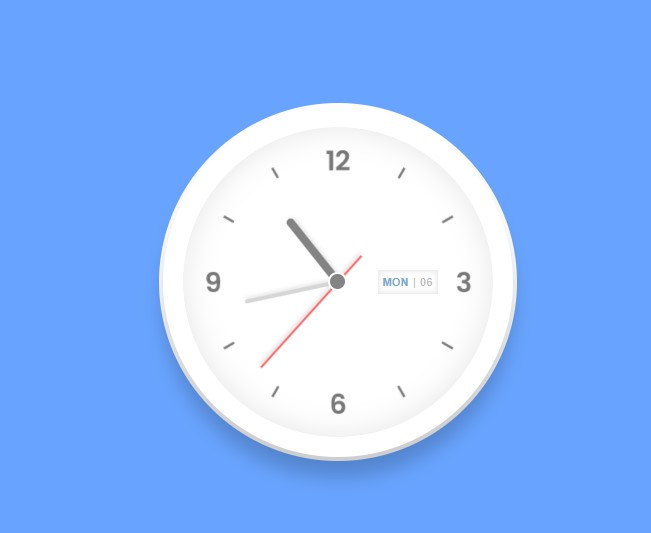
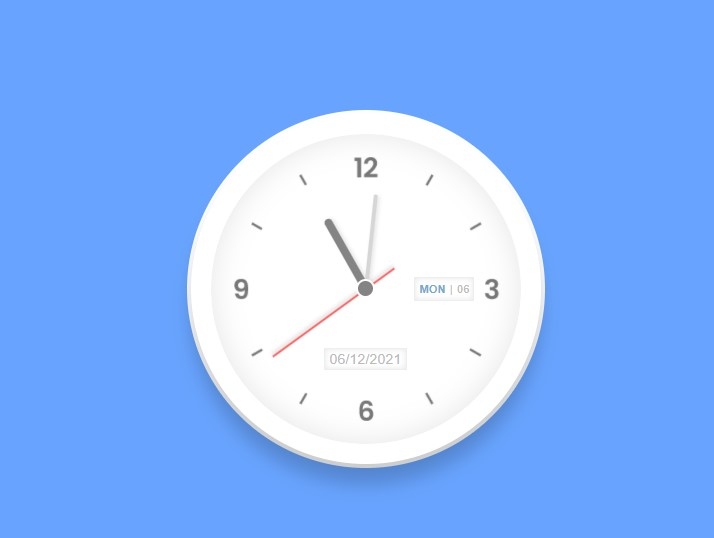
analog clock updated

diff --git a/irshad_ot/misc/analog_clock/index.html b/irshad_ot/misc/analog_clock/index.html
@@ -26,6 +26,10 @@
         <span class="dayOfWeek"></span> | 
         <span class="currentDay"></span>
       </div>
+
+      <div class="calendar">
+        <span class="completeDate">25/01/2020</span>
+      </div>
     </div>
   </section>
 
@@ -38,18 +42,25 @@
 
     const daysOfWeek = document.querySelector('.dayOfWeek')
     const currentDayNumber = document.querySelector('.currentDay')
+    const completeDate = document.querySelector('.completeDate')
 
     setInterval(() => {
       const day = new Date()
-      
-      const currentDay = day.getDate()
+
       const dayOfWeek = day.toLocaleString('en-us', { weekday: 'short'})
       const hh = day.getHours() * 30
       const mm = day.getMinutes() * deg
       const ss = day.getSeconds() * deg
       
+      const currentDay = (''+day.getDate()).padStart(2,'0')
+      const currentMonth = (''+(day.getMonth() + 1)).padStart(2,'0')
+      const currentYear = day.getFullYear()
+
+      const currentDate = `${currentDay}/${currentMonth}/${currentYear}`
+
       daysOfWeek.innerHTML = dayOfWeek
-      currentDayNumber.innerHTML = (''+currentDay).padStart(2,'0')
+      currentDayNumber.innerHTML = currentDay
+      completeDate.innerHTML = currentDate
 
       hr.style.transform = `rotateZ(${hh + (mm / 12)}deg)`
       mn.style.transform = `rotateZ(${mm}deg)`

diff --git a/irshad_ot/misc/analog_clock/style.css b/irshad_ot/misc/analog_clock/style.css
@@ -108,7 +108,7 @@ body {
 
 .date {
   position: relative;
-  left: 70px;
+  left: 120px;
   font-size: 0.7rem;
   width: 60px;
   display: flex;
@@ -124,7 +124,23 @@ body {
   box-shadow: inset 0 0 6px rgba(0,0,0,0.1);
 }
 
+.calendar {
+  position: relative;
+  left: -30px;
+  top:70px;
+  font-size: 0.9rem;
+  background: #fff;
+  display: flex;
+  align-items: center;
+  padding: 2px 4px;
+  border: 1px solid #eee;
+  color: #bbb;
+  box-shadow: inset 0 0 6px rgba(0,0,0,0.1);
+}
+
 .dayOfWeek {
   color: #75AACE;
   font-weight: bold;
 }
+
+
